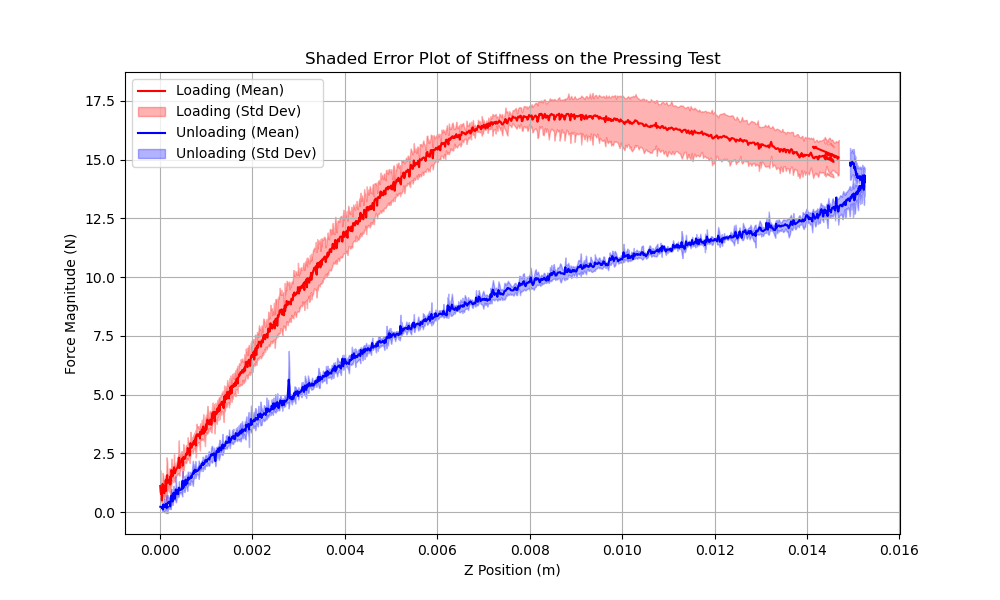
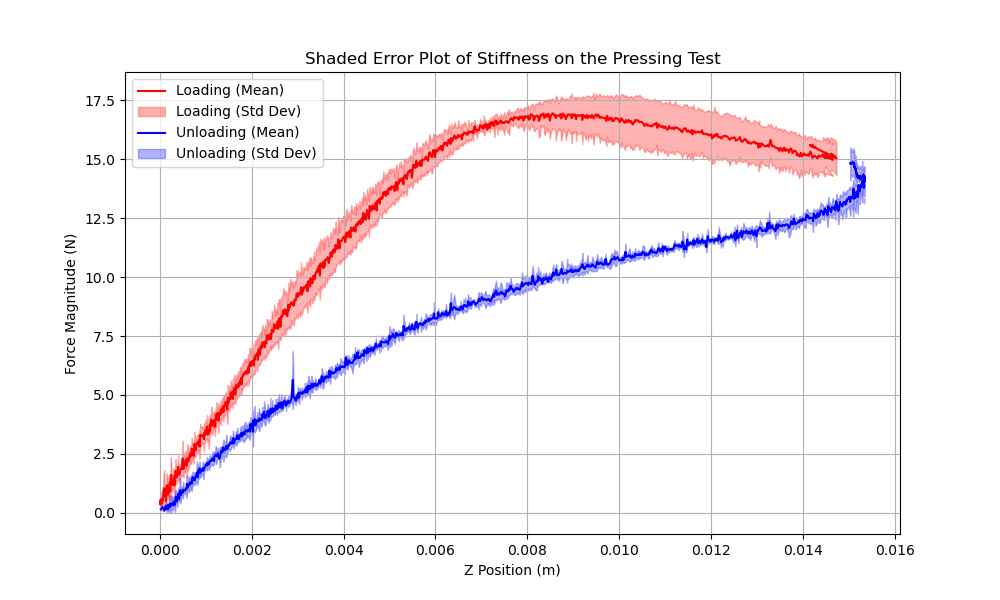
Lab desktop

diff --git a/old_code/osc_control_backup.py b/old_code/osc_control_backup.py
@@ -1,0 +1,314 @@
+"""Example script of moving robot joint positions."""
+import argparse
+import pickle
+import threading
+import time
+from pathlib import Path
+
+import matplotlib.pyplot as plt
+import numpy as np
+from scipy.spatial.transform import Rotation as R
+
+from ForceSensor import ForceSensor
+from deoxys import config_root
+from deoxys.experimental.motion_utils import reset_joints_to
+from deoxys.franka_interface import FrankaInterface
+from deoxys.utils import YamlConfig, transform_utils
+from deoxys.utils.config_utils import (get_default_controller_config,
+                                       verify_controller_config)
+from deoxys.utils.input_utils import input2action
+from deoxys.utils.log_utils import get_deoxys_example_logger
+
+logger = get_deoxys_example_logger()
+
+
+def parse_args():
+    parser = argparse.ArgumentParser()
+    parser.add_argument("--interface-cfg", type=str, default="charmander.yml")
+    parser.add_argument("--controller-type", type=str, default="OSC_POSE")
+    args = parser.parse_args()
+    return args
+
+
+def compute_errors(pose_1, pose_2):
+
+    pose_a = (
+        pose_1[:3]
+        + transform_utils.quat2axisangle(np.array(pose_1[3:]).flatten()).tolist()
+    )
+    pose_b = (
+        pose_2[:3]
+        + transform_utils.quat2axisangle(np.array(pose_2[3:]).flatten()).tolist()
+    )
+    return np.abs(np.array(pose_a) - np.array(pose_b))
+
+
+def osc_move(robot_interface, controller_type, controller_cfg, target_pose, num_steps):
+    target_pos, target_quat = target_pose
+    target_axis_angle = transform_utils.quat2axisangle(target_quat)
+    current_rot, current_pos = robot_interface.last_eef_rot_and_pos
+
+    for _ in range(num_steps):
+        current_pose = robot_interface.last_eef_pose
+        current_pos = current_pose[:3, 3:]
+        current_rot = current_pose[:3, :3]
+        current_quat = transform_utils.mat2quat(current_rot)
+        if np.dot(target_quat, current_quat) < 0.0:
+            current_quat = -current_quat
+        quat_diff = transform_utils.quat_distance(target_quat, current_quat)
+        current_axis_angle = transform_utils.quat2axisangle(current_quat)
+        axis_angle_diff = transform_utils.quat2axisangle(quat_diff)
+        action_pos = (target_pos - current_pos).flatten() * 10
+        action_axis_angle = axis_angle_diff.flatten() * 1
+        action_pos = np.clip(action_pos, -1.0, 1.0)
+        action_axis_angle = np.clip(action_axis_angle, -0.5, 0.5)
+
+        action = action_pos.tolist() + action_axis_angle.tolist() + [-1.0]
+        # logger.info(f"Axis angle action {action_axis_angle.tolist()}")
+        print(np.round(action, 2))
+        robot_interface.control(
+            controller_type=controller_type,
+            action=action,
+            controller_cfg=controller_cfg,
+        )
+
+
+    return action
+
+
+def move_to_target_pose(
+    robot_interface,
+    controller_type,
+    controller_cfg,
+    target_delta_pose,
+    num_steps,
+    num_additional_steps,
+    interpolation_method,
+    type='euler'
+):
+    while robot_interface.state_buffer_size == 0:
+        logger.warn("Robot state not received")
+        time.sleep(0.5)
+
+    current_ee_pose = robot_interface.last_eef_pose
+    current_pos = current_ee_pose[:3, 3:]
+    current_rot = current_ee_pose[:3, :3]
+    
+    if type == 'euler':
+        target_delta_pos, target_delta_euler = (
+            target_delta_pose[:3],
+            target_delta_pose[3:],
+        )
+        target_delta_rot = R.from_euler('XYZ', target_delta_euler).as_matrix()
+        target_rot = np.dot(target_delta_rot, current_rot)
+        target_quat = R.from_matrix(target_rot).as_quat()
+        target_pos = np.array(target_delta_pos).reshape(3, 1) + current_pos
+        osc_move(
+            robot_interface,
+            controller_type,
+            controller_cfg,
+            (target_pos, target_quat),
+            num_steps,
+        )
+        osc_move(
+            robot_interface,
+            controller_type,
+            controller_cfg,
+            (target_pos, target_quat),
+            num_additional_steps,
+        )
+    else:
+        target_delta_pos, target_delta_axis_angle = (
+            target_delta_pose[:3],
+            target_delta_pose[3:],
+        )
+        # print("target_delta_axis_angle: ", target_delta_axis_angle)
+        # target_delta_pos, target_delta_euler_angle = (
+        #     target_delta_pose[:3],
+        #     target_delta_pose[3:],
+        # )
+
+        current_ee_pose = robot_interface.last_eef_pose
+        current_pos = current_ee_pose[:3, 3:]
+        current_rot = current_ee_pose[:3, :3]
+        
+        current_quat = transform_utils.mat2quat(current_rot)
+        current_axis_angle = transform_utils.quat2axisangle(current_quat)
+        # current_euler_angle = R.from_matrix(current_rot).as_euler('XYZ') 
+
+        target_pos = np.array(target_delta_pos).reshape(3, 1) + current_pos
+
+        # print(np.array(target_delta_axis_angle).shape, current_axis_angle.shape)
+        # exit()
+        target_axis_angle = np.array(target_delta_axis_angle) + current_axis_angle
+        print("target_axis_angle, current_axis_angle:", np.degrees(np.array(target_axis_angle)), np.degrees(np.array(current_axis_angle)))
+        # target_euler_angle = np.array(target_delta_euler_angle) + current_euler_angle
+        # print("target_euler_angle, current_euler_angle: ", np.degrees(np.array(target_euler_angle)), np.degrees(np.array(current_euler_angle)))
+        # target_quat = R.from_euler('XYZ', target_euler_angle).as_quat()
+
+        # logger.info(f"Before conversion {target_axis_angle}")
+        target_quat = transform_utils.axisangle2quat(target_axis_angle)
+        
+        # target_pose = target_pos.flatten().tolist() + target_quat.flatten().tolist()
+        # if np.dot(target_quat, current_quat) < 0.0:
+        #     current_quat = -current_quat
+        # target_axis_angle = transform_utils.quat2axisangle(target_quat)
+        # # logger.info(f"After conversion {target_axis_angle}")
+        # current_axis_angle = transform_utils.quat2axisangle(current_quat)
+
+        # start_pose = current_pos.flatten().tolist() + current_quat.flatten().tolist()
+
+        print("TARGET QUAT: ", target_quat)
+        print('TARGET AXIS: ', np.degrees(transform_utils.quat2axisangle(target_quat)))
+        # print('TARGET EULER: ', transform_utils.quat2euler(target_quat))
+
+        osc_move(
+            robot_interface,
+            controller_type,
+            controller_cfg,
+            (target_pos, target_quat),
+            num_steps,
+        )
+        osc_move(
+            robot_interface,
+            controller_type,
+            controller_cfg,
+            (target_pos, target_quat),
+            num_additional_steps,
+        )
+
+
+
+def check_force_limit(force_sensor):
+    force_sensor.force_sensor_setup()
+    while True:
+        # get force reading from the force sensor
+        force = force_sensor.get_force_obs()
+        print(force)
+        if np.linalg.norm(force) > 1:
+            exit()
+
+'''
+def get_robot_obs(self,):
+    #get force reading from the force sensor
+    force = self.force_sensor.get_force_obs()
+
+    return joint_q_cos, joint_q_sin, joint_vel, eff_pos, eff_ori
+'''
+
+def read_force_sensor(force_sensor):
+    while True:
+        force = force_sensor.get_force_obs()
+        print("Force: ", force)
+        time.sleep(0.1)  # Adjust the sleep time as needed
+
+# Main program continues running, potentially doing other tasks
+def show_active_threads():
+    """Function to display active threads."""
+    print("\nActive Threads:")
+    for thread in threading.enumerate():
+        print(f"Thread Name: {thread.name}, Thread ID: {thread.ident}, Daemon: {thread.daemon}")
+
+
+def main():
+    args = parse_args()
+
+    robot_interface = FrankaInterface(
+        config_root + f"/{args.interface_cfg}", use_visualizer=False
+    )
+    controller_type = args.controller_type
+
+    controller_cfg = get_default_controller_config(controller_type)
+    # print("controller_type, controller_cfg", controller_type, controller_cfg)
+
+    force_sensor = ForceSensor("/dev/ttyUSB0", np.array([-10.982798427581788, -144.29237174987793, 9.55335311985016]))
+    force_sensor.force_sensor_setup()
+    print("force sensor is set")
+ #   force = force_sensor.get_force_obs()
+ #   print("force: ", force)
+    
+    # Start a separate thread to continuously monitor the force sensor
+#    force_thread = threading.Thread(target=check_force_limit, args=(force_sensor,))
+#    force_thread.daemon = True
+#    force_thread.start()
+
+    # Create and start the thread
+    force_thread = threading.Thread(target=read_force_sensor, args=(force_sensor,), name="ForceSensorThread")
+    force_thread.daemon = True  # Set as daemon so it won't block the program from exiting
+    force_thread.start()
+
+    show_active_threads()
+
+
+    while robot_interface.state_buffer_size == 0:
+        logger.warn("Robot state not received")
+        time.sleep(0.5)
+ 
+    '''
+    reset_joint_positions = [
+        0.09162008114028396,
+        -0.19826458111314524,
+        -0.01990020486871322,
+        -2.4732269941140346,
+        -0.01307073642274261,
+        2.30396583422025,
+        0.8480939705504309,
+    ]
+    
+       # change later
+   
+    reset_joint_positions = [
+            -0.29162008114028396,
+            -0.19826458111314524,
+            -0.01990020486871322,
+            -2.4732269941140346,
+            -0.01307073642274261,
+            2.30396583422025,
+            0.4480939705504309,
+        ]
+    '''
+    reset_joint_positions = [-0.7887920648673097, 0.5521591844079418, 0.3668758866257393, -2.608892855821465, -0.1520263171183264, 3.6705817207702824, 0.35279838085632825]
+
+
+    reset_joints_to(robot_interface, reset_joint_positions)
+
+    current_ee_pose = robot_interface.last_eef_pose
+    current_rot = current_ee_pose[:3, :3]
+    current_euler_angle_degrees_intr = R.from_matrix(current_rot).as_euler('XYZ', degrees=True)
+    current_euler_angle_degrees_extr = R.from_matrix(current_rot).as_euler('xyz', degrees=True)
+    print("Start current_euler_angle intr: ", current_euler_angle_degrees_intr)
+    print("Start current_euler_angle extr: ", current_euler_angle_degrees_extr)
+    
+    move_to_target_pose(
+        robot_interface,
+        controller_type,
+        controller_cfg,
+        target_delta_pose=[0.0, 0.0, 0.0, 0.0, 0.0, 0.0],
+        num_steps=80,
+        num_additional_steps=40,
+        interpolation_method="linear",
+        type="euler"
+    )
+
+    final_ee_pose = robot_interface.last_eef_pose
+    final_rot = final_ee_pose[:3, :3]
+    final_euler_angle_degrees_intr = R.from_matrix(final_rot).as_euler('XYZ', degrees=True)
+    final_euler_angle_degrees_extr = R.from_matrix(final_rot).as_euler('xyz', degrees=True)
+    print("final_euler_angle intr: ", final_euler_angle_degrees_intr)
+    print("final_euler_angle extr: ", final_euler_angle_degrees_extr)
+    # final_axis_angle_degrees = R.from_matrix(final_rot).as_rotvec(degrees=True)
+    # print("================")
+    # print("Final euler_angle: ", final_euler_angle_degrees)
+    # print("Final axis_angle: ", final_axis_angle_degrees)
+
+    # final_quat = transform_utils.mat2quat(final_rot)
+    # print("ACtual final quat", final_quat)
+    # print('Actual final axis: ', np.degrees(transform_utils.quat2axisangle(final_quat)))
+    # final_axis_angle_degrees = transform_utils.quat2axisangle(final_quat)
+    # print("Final axis_angle: ", np.degrees(np.array(final_axis_angle_degrees)))
+
+    robot_interface.close()
+
+if __name__ == "__main__":
+    main()
+

diff --git a/time_plot_only_force.py b/time_plot_only_force.py
@@ -1,0 +1,49 @@
+import os
+import pandas as pd
+import matplotlib.pyplot as plt
+from pathlib import Path
+
+# Centralized PATH variable
+file_PATH = Path('data/20241118/154801')
+
+# Load the data
+force_data = pd.read_csv(file_PATH / 'force_data.csv')
+
+# Print the number of data points in each DataFrame
+print(f"Number of data points in force_data: {len(force_data)}")
+
+# Round timestamps to align data and facilitate merging
+force_data['Timestamp'] = force_data['Timestamp'].round(2)
+
+# Find the maximum force and its corresponding timestamp
+max_force_index = force_data['Force Magnitude'].idxmax()
+max_force = force_data.loc[max_force_index, 'Force Magnitude']
+max_force_timestamp = force_data.loc[max_force_index, 'Timestamp']
+
+print(f"Maximum Force: {max_force:.2f} N at Timestamp: {max_force_timestamp:.2f}s")
+
+# Plotting the force data on the time domain and saving
+fig, ax1 = plt.subplots(figsize=(12, 6))
+
+# Plot force data
+ax1.plot(force_data["Timestamp"], force_data["Force Magnitude"], label="Force Magnitude", color='tab:blue', linewidth=2)
+ax1.set_xlabel("Time (s)")
+ax1.set_ylabel("Force Magnitude (N)", color='tab:blue')
+ax1.grid(True)
+
+# Combine legends into one inside the figure
+ax1.legend(loc="upper left", fontsize=10, frameon=True)
+
+time_plot_path = file_PATH / "pure_force.png"
+
+# Adding title
+plt.title("Force Magnitude Over Time")
+
+# Show the plot
+# plt.show()
+
+# Save the plot (optional)
+plt.savefig(time_plot_path, dpi=300)
+plt.close(fig)
+
+print(f"Plot saved as '{time_plot_path}'.")

diff --git a/Stiffness_plot_shaded_error.py b/Stiffness_plot_shaded_error.py
@@ -48,7 +48,7 @@ for file_path in file_paths:
     unloading_forces.append(unloading_data["Force Magnitude"].values)
 
 # Define a function to align, shift, and calculate mean and std deviation
-def calculate_shaded_error(z_positions, forces, shift=0.002):
+def calculate_shaded_error(z_positions, forces, shift=0.0019):
     # Determine the smallest length to align all data
     min_length = min(len(z) for z in z_positions)
 

diff --git a/old_code/video_capture_realsense_w64.py b/old_code/video_capture_realsense_w64.py
@@ -23,7 +23,7 @@ frame_rate = 30  # Set the desired frame rate
 out = cv2.VideoWriter(output_filename, fourcc, frame_rate, (640, 480))
 
 # Set recording duration
-record_duration = 10  # Set the recording duration in seconds
+record_duration = 100  # Set the recording duration in seconds
 start_time = time.time()
 
 print("Recording... Press 'q' to stop early.")
